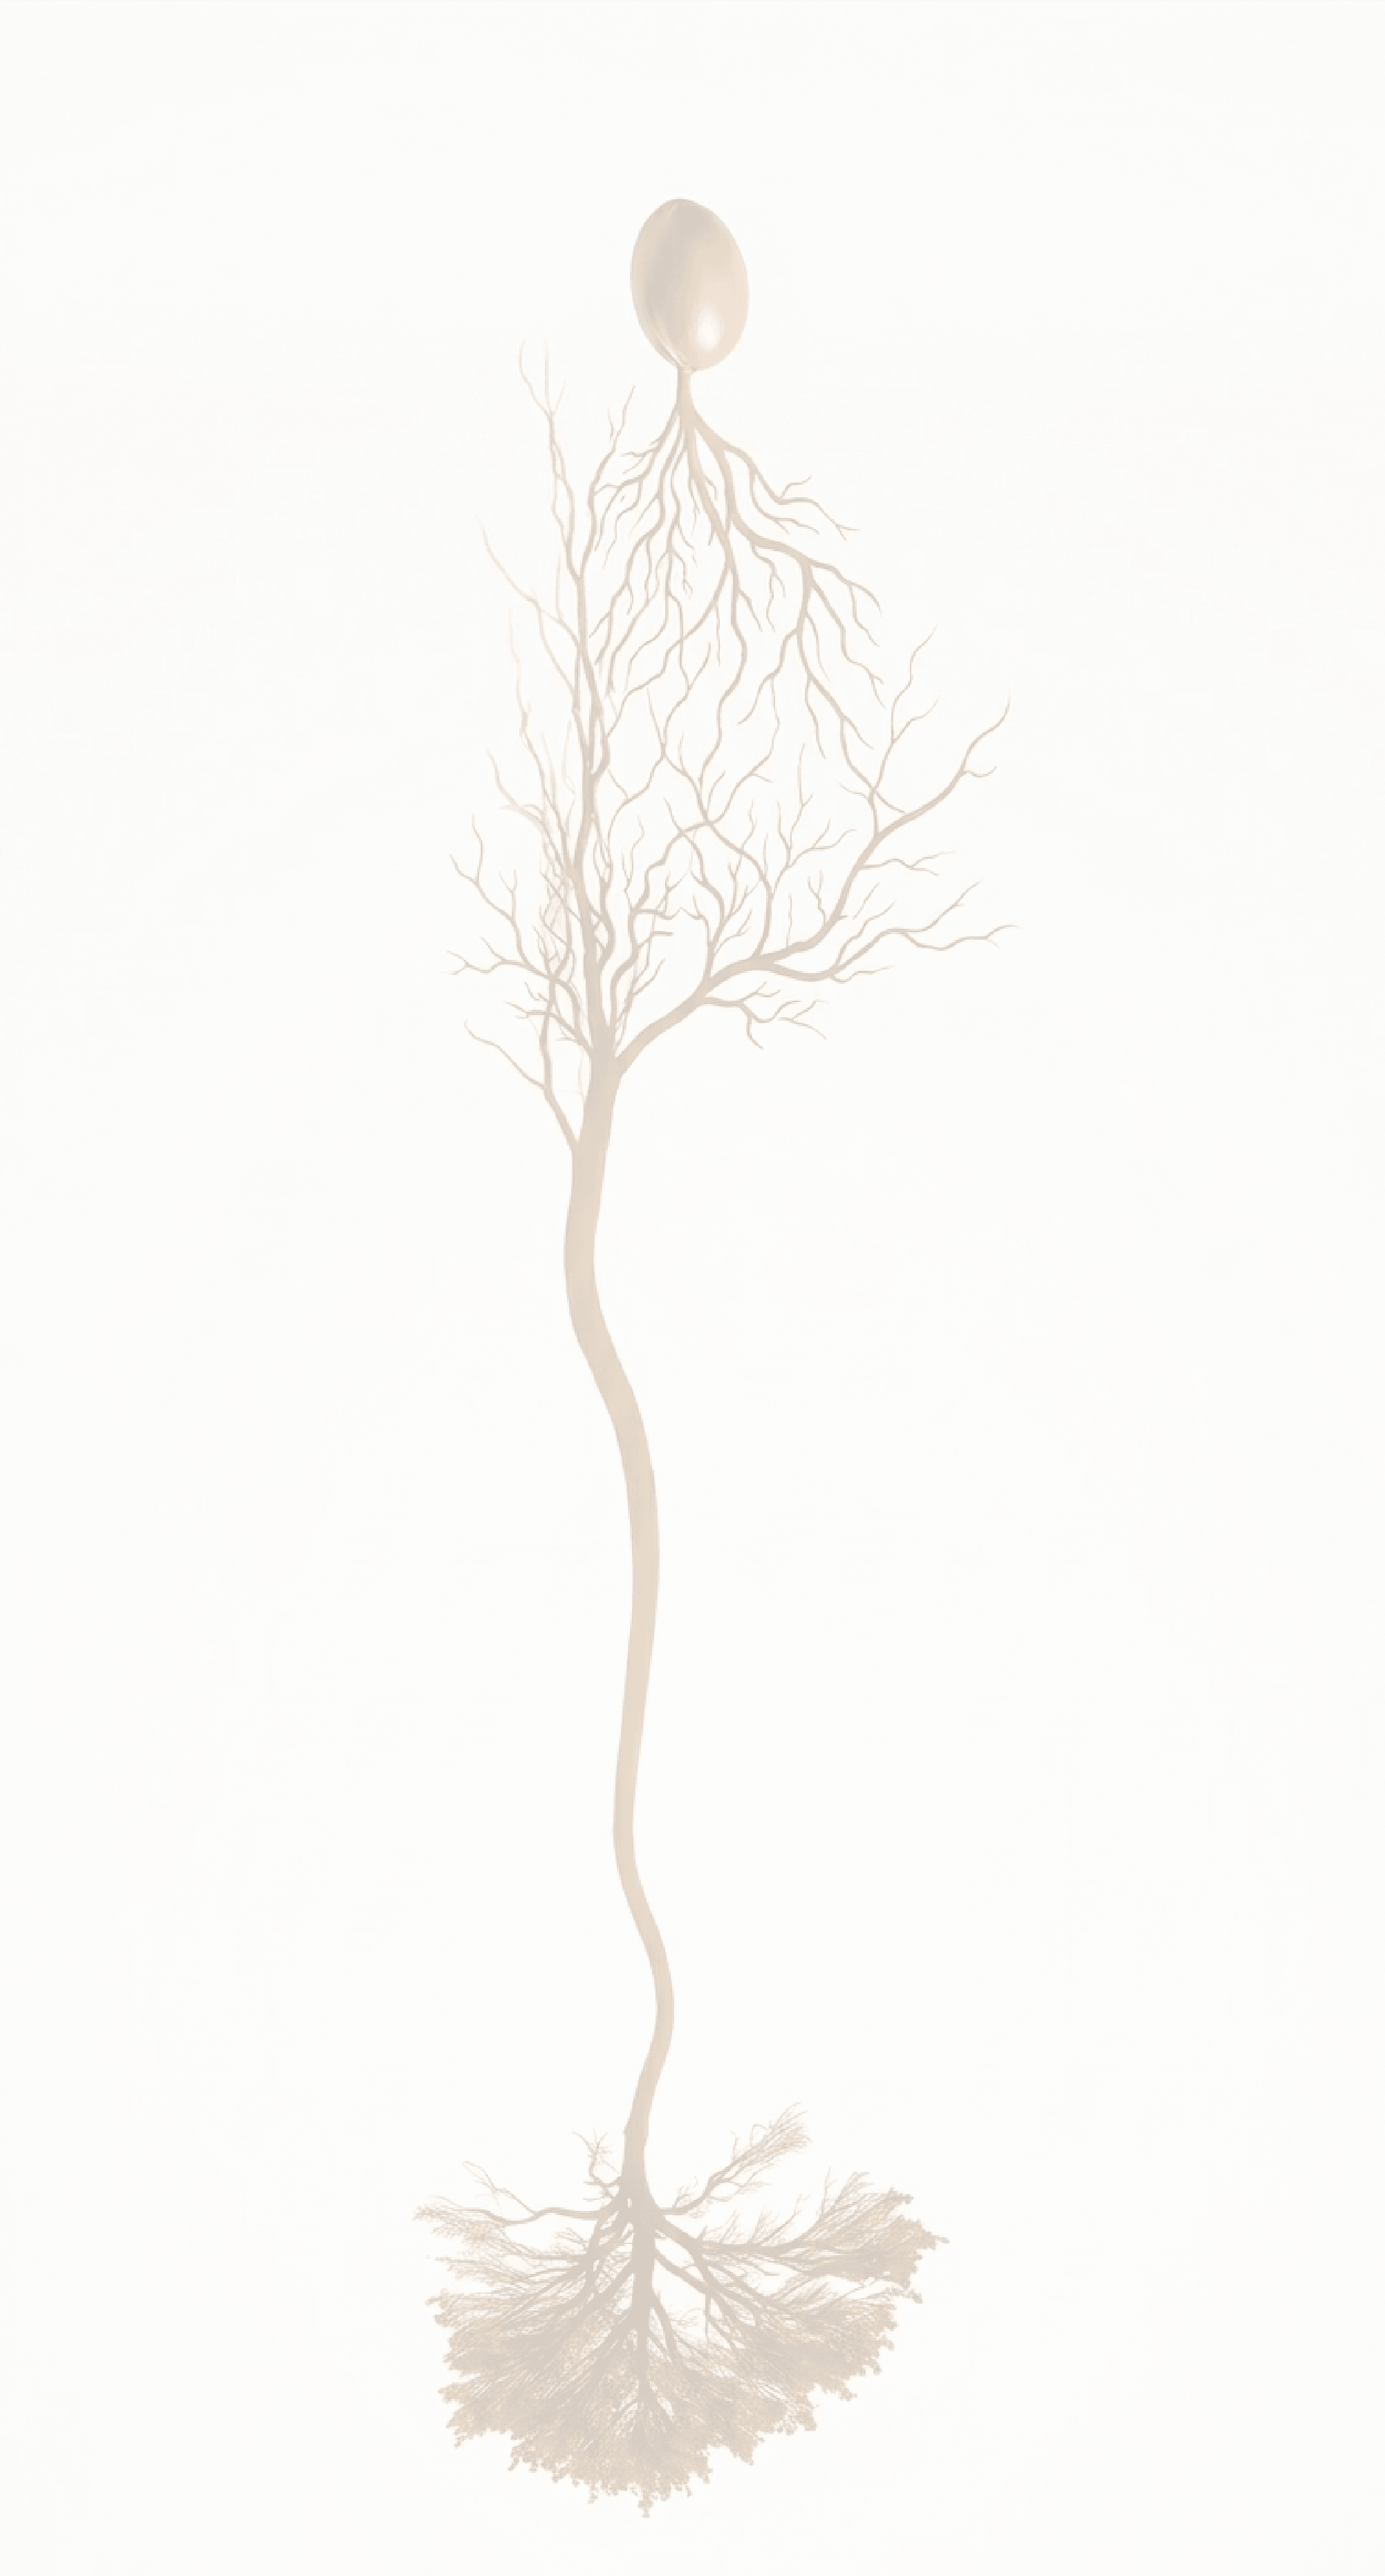
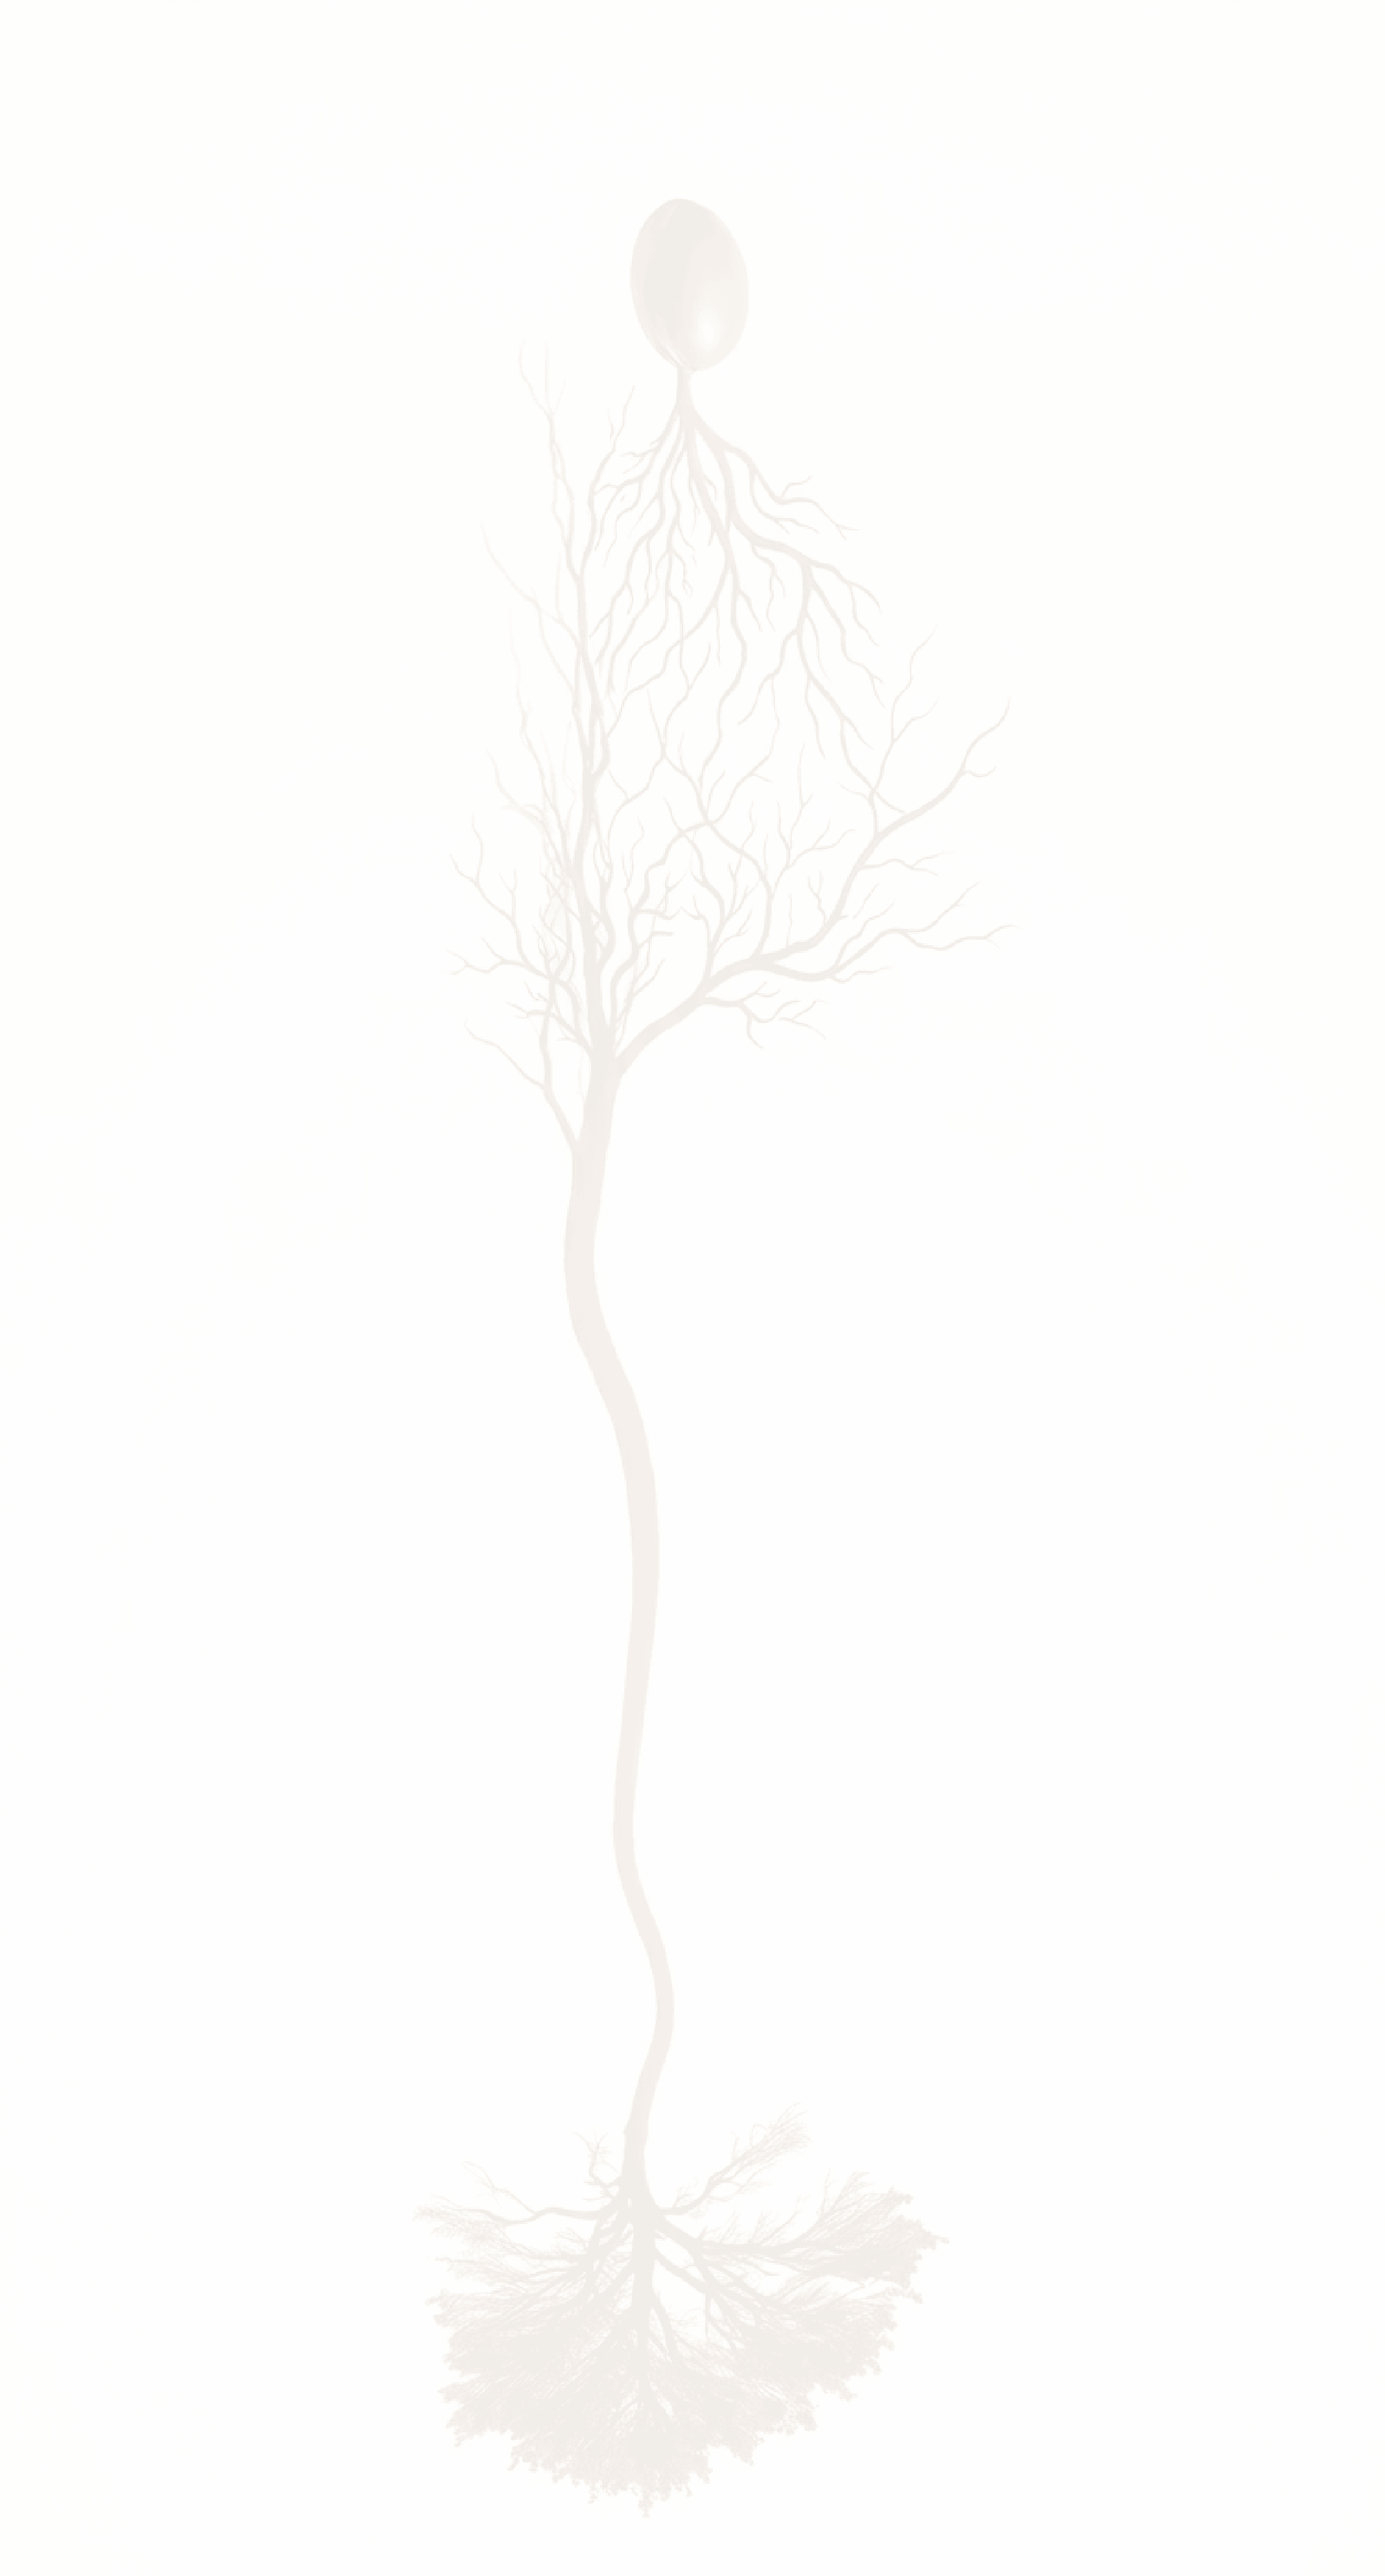
updated section padding

Changed region(s): [[0.3714, 0.0623, 0.681, 0.7474], [0.3095, 0.7474, 0.681, 0.9965]]

diff --git a/assets/css/style.css b/assets/css/style.css
@@ -539,8 +539,8 @@ p:last-child {
 }
 @media (min-width: 1024px) {
   .section-padding {
-    padding-top: 10%;
-    padding-bottom: 10%;
+    padding-top: 10rem;
+    padding-bottom: 10rem;
     padding-left: 5rem;
     padding-right: 5rem;
   }
@@ -1097,9 +1097,6 @@ video {
 .mt-8 {
   margin-top: 2rem;
 }
-.mr-8 {
-  margin-right: 2rem;
-}
 .block {
   display: block;
 }
@@ -1142,6 +1139,9 @@ video {
 .h-32 {
   height: 8rem;
 }
+.h-4 {
+  height: 1rem;
+}
 .h-8 {
   height: 2rem;
 }
@@ -1169,12 +1169,6 @@ video {
 .h-screen {
   height: 100vh;
 }
-.h-3 {
-  height: 0.75rem;
-}
-.h-4 {
-  height: 1rem;
-}
 .max-h-\[80vh\] {
   max-height: 80vh;
 }
@@ -1199,6 +1193,9 @@ video {
 .w-0 {
   width: 0px;
 }
+.w-4 {
+  width: 1rem;
+}
 .w-48 {
   width: 12rem;
 }
@@ -1213,18 +1210,6 @@ video {
 }
 .w-full {
   width: 100%;
-}
-.w-3 {
-  width: 0.75rem;
-}
-.w-4 {
-  width: 1rem;
-}
-.w-28 {
-  width: 7rem;
-}
-.min-w-\[640px\] {
-  min-width: 640px;
 }
 .min-w-\[545px\] {
   min-width: 545px;
@@ -1243,9 +1228,6 @@ video {
 }
 .grow {
   flex-grow: 1;
-}
-.table-fixed {
-  table-layout: fixed;
 }
 .border-collapse {
   border-collapse: collapse;
@@ -1333,11 +1315,11 @@ video {
 .rounded-\[4rem\] {
   border-radius: 4rem;
 }
-.rounded-none {
-  border-radius: 0px;
-}
 .rounded-full {
   border-radius: 9999px;
+}
+.rounded-none {
+  border-radius: 0px;
 }
 .border {
   border-width: 1px;
@@ -1469,6 +1451,9 @@ video {
 .p-2 {
   padding: 0.5rem;
 }
+.p-4 {
+  padding: 1rem;
+}
 .p-5p {
   padding: 5%;
 }
@@ -1477,12 +1462,6 @@ video {
 }
 .p-8 {
   padding: 2rem;
-}
-.p-4 {
-  padding: 1rem;
-}
-.p-3 {
-  padding: 0.75rem;
 }
 .px-1 {
   padding-left: 0.25rem;
@@ -1532,10 +1511,6 @@ video {
   padding-top: 0.25rem;
   padding-bottom: 0.25rem;
 }
-.px-0 {
-  padding-left: 0px;
-  padding-right: 0px;
-}
 .pb-12 {
   padding-bottom: 3rem;
 }
@@ -1548,14 +1523,14 @@ video {
 .pl-8 {
   padding-left: 2rem;
 }
+.pr-0 {
+  padding-right: 0px;
+}
 .pr-4 {
   padding-right: 1rem;
 }
 .pr-8 {
   padding-right: 2rem;
-}
-.pr-0 {
-  padding-right: 0px;
 }
 .text-left {
   text-align: left;
@@ -1657,10 +1632,6 @@ video {
 .text-lighter {
   --tw-text-opacity: 1;
   color: rgb(249 248 246 / var(--tw-text-opacity));
-}
-.text-main {
-  --tw-text-opacity: 1;
-  color: rgb(213 170 170 / var(--tw-text-opacity));
 }
 .accent-accent {
   accent-color: #cd913c;
@@ -1962,9 +1933,6 @@ video {
   .md\:mt-0 {
     margin-top: 0px;
   }
-  .md\:mr-0 {
-    margin-right: 0px;
-  }
   .md\:block {
     display: block;
   }
@@ -2007,17 +1975,11 @@ video {
   .md\:w-\[80\%\] {
     width: 80%;
   }
-  .md\:w-auto {
-    width: auto;
-  }
   .md\:min-w-\[640px\] {
     min-width: 640px;
   }
   .md\:max-w-\[80vw\] {
     max-width: 80vw;
-  }
-  .md\:table-auto {
-    table-layout: auto;
   }
   .md\:columns-3 {
     -moz-columns: 3;
@@ -2050,10 +2012,6 @@ video {
   .md\:py-10p {
     padding-top: 10%;
     padding-bottom: 10%;
-  }
-  .md\:px-20 {
-    padding-left: 5rem;
-    padding-right: 5rem;
   }
 }
 
@@ -2147,6 +2105,9 @@ video {
   .lg\:mt-8 {
     margin-top: 2rem;
   }
+  .lg\:mt-40 {
+    margin-top: 10rem;
+  }
   .lg\:block {
     display: block;
   }
@@ -2174,14 +2135,14 @@ video {
   .lg\:w-\[70\%\] {
     width: 70%;
   }
+  .lg\:w-\[75\%\] {
+    width: 75%;
+  }
   .lg\:w-\[80\%\] {
     width: 80%;
   }
   .lg\:w-\[85\%\] {
     width: 85%;
-  }
-  .lg\:w-\[75\%\] {
-    width: 75%;
   }
   .lg\:max-w-\[40vw\] {
     max-width: 40vw;

diff --git a/homm.html b/homm.html
@@ -144,18 +144,20 @@ tiers:
 </section>
 
 <!-- Tiers -->
-<section class="section-padding text-center bg-image-style" style="background-image: url('/uploads/backgrounds/tree-homm.png'); background-position: 50% 78%;">
+<section class="mt-20 lg:mt-40 mx-8 lg:mx-20 text-center">
   <h2 class="heading-md text-feature mb-4">HoMM Academy is a Tiered Educational Haven.</h2>
   <p>You choose your level. You choose your depth of engagement and devotion…</p>
 
-  {% for item in page.tiers %}
-    <div class="mt-12 lg:w-[60%] mx-auto">
-      <h3 class="heading-md text-feature mb-4">{{ item.title }}</h3>
-      <p class="uppercase">{{ item.level }}</p>
-      <p class="text-feature"><strong>{{ item.subscription }}</strong></p>
-      <p>{{ item.description_html }}</p>
-    </div>
-  {% endfor %}
+  <div class="bg-contain bg-center bg-no-repeat" style="background-image: url('/uploads/backgrounds/tree-homm.png');">
+    {% for item in page.tiers %}
+      <div class="mt-12 lg:w-[60%] mx-auto">
+        <h3 class="heading-md text-feature mb-4">{{ item.title }}</h3>
+        <p class="uppercase">{{ item.level }}</p>
+        <p class="text-feature"><strong>{{ item.subscription }}</strong></p>
+        <p>{{ item.description_html }}</p>
+      </div>
+    {% endfor %}
+  </div>
 
   <hr class="border-main my-20">
 

diff --git a/style.css b/style.css
@@ -69,7 +69,7 @@
 
     /* Structure */
     .section-padding {
-        @apply py-20 lg:py-10p px-8 lg:px-20
+        @apply py-20 lg:py-40 px-8 lg:px-20
     }
 
     .x-padding {
